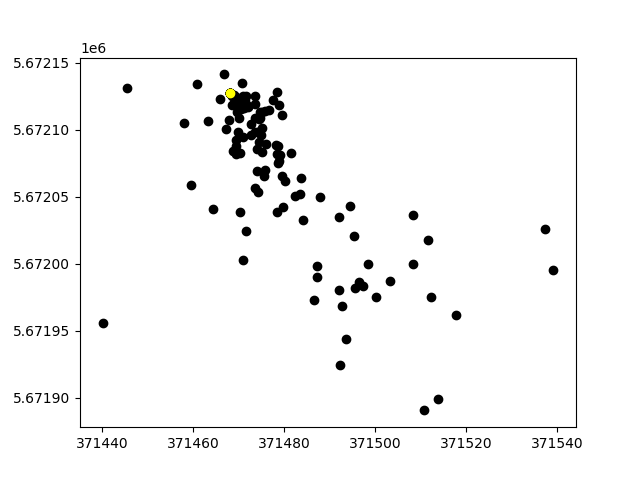
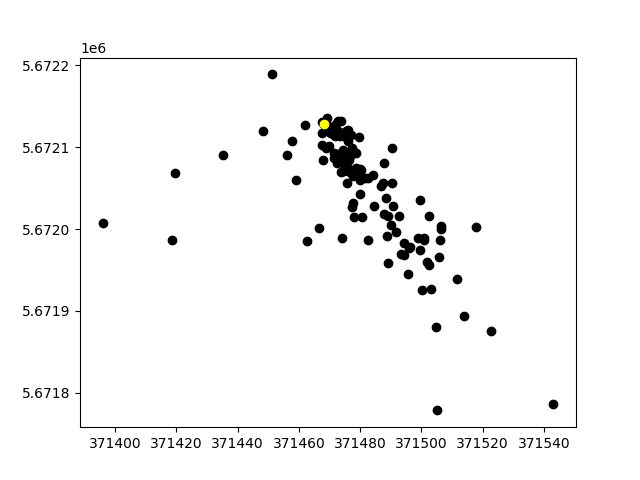
code cleaned. works perfectly

diff --git a/main.py b/main.py
@@ -1,22 +1,22 @@
+from ABC_HFs import *
 from runParameter import *
-import matplotlib.pyplot as plt
 
 import laspy
+import multiprocessing
+import matplotlib.pyplot as plt
 import time
 
-# Import Topography from file
+from scipy.io import loadmat
+
+# import relevant data
+data = loadmat('A6.mat')
+actualDebris    = data['A']
+actualDebris    = actualDebris[:119]
+
 file = laspy.read('/shome/yousef_j/Thesis/merged2Cut.laz')
 ptCloud = np.vstack((file.x, file.y, file.z)).T
-
-# Create Dummy file with zero elevation
-locationZero = np.copy(ptCloud)
-locationZero[:, 2] = 0
-dummyCloud = locationZero
-
+KDTree = cKDTree(ptCloud[:, :2])
 lowestPoint = 190
-
-# Point of Impact (House Number 128)
-pointOfImpact = [371468.11, 5672127.86, 290]
 
 # Course after bouncing off the house
 course = 167.54
@@ -26,13 +26,10 @@ sinkRate = -58
 velocity = 140
 scalingFactor = (velocity**2 - sinkRate**2)**0.5
 
-# How many times the entire simulation is run
-runs = 1
-
 projectileMass = 13000
 projectileVelocity = [np.sin(np.radians(course)) * scalingFactor, np.cos(np.radians(course)) * scalingFactor, -sinkRate]
-print(np.linalg.norm(projectileVelocity))
 projectileLength = 17.53
+pointOfImpact = [371468.11, 5672127.86, 290]
 
 minPen = 13.2
 maxPen = 28.15
@@ -47,22 +44,74 @@ psi = 0.9
 # Start timer
 start_time = time.time()
 
-KDTree = cKDTree(dummyCloud[:, :2])  # Only consider x and y coordinates
+# ABC and multiprocessing parameters
+h = 0.2     # tolerence is 10%
+N = 1000    # attempts to simulate a sample from the posterior
+numberOfCores = 40
+simulations_per_core = int(N/numberOfCores)
 
-# Run simulation
-storageDestinations = runParameter(runs, ptCloud, dummyCloud, lowestPoint, projectileMass, projectileLength,
-                                           projectileVelocity, pointOfImpact, psi, phi, c, b, minPen, maxPen, devPen, KDTree)
+# Function to run the simulation for a given index range
+def run_simulation(start_index, end_index, results_queue):
+    # Number of attempts to simulate a sample from the posterior
+    N = end_index - start_index  
+    
+    phi_result = []
+    storage_destinations_result = []
+    for i in range(N):
+        phi = np.random.uniform(0.81, 0.95)
+        storageDestinations = runParameter(ptCloud, lowestPoint, projectileMass, projectileLength, 
+                                           projectileVelocity, pointOfImpact, psi, phi, c, b, minPen, maxPen, devPen, KDTree,)
+        
+        acceptSample = distance(actualDebris, storageDestinations, h, pointOfImpact)
+        if acceptSample:
+            phi_result.append(phi)
+            storage_destinations_result.append(storageDestinations)
+
+    results_queue.put((phi_result, storage_destinations_result))
+
+# Multiprocessing
+manager = multiprocessing.Manager()
+results_queue = manager.Queue()
+processes = []
+for i in range(numberOfCores): 
+    start_index = i * simulations_per_core
+    end_index = (i + 1) * simulations_per_core
+    process = multiprocessing.Process(
+        target=run_simulation, args=(start_index, end_index, results_queue)
+    )
+    process.start()
+    processes.append(process)
+
+# Wait for all processes to finish
+for process in processes:
+    process.join()
+
+# Get the results from the queue
+phi = []
+storageDestinations = []
+while not results_queue.empty():
+    phi_temp, storageDestinations_temp = results_queue.get()
+    phi.extend(phi_temp)
+    storageDestinations.extend(storageDestinations_temp)
 
 # Print elapsed time
 print("Elapsed time:", time.time() - start_time)
 
+# plot posterior distribution of phi
+plt.hist(phi)
+plt.savefig("phiPosterior_N1000")
+plt.clf()
+plt.close()
+
+# Plotting simulated debris
 counter = 0
-for i in range(len(storageDestinations)):
-    if storageDestinations[i, 0] < 100:
+for i in range(len(storageDestinations[0])):
+    if storageDestinations[0][i, 0] < 100:
         counter += 1
         continue
     else:
-        plt.scatter(storageDestinations[i, 0], storageDestinations[i, 1], color='black')
-
+        plt.scatter(storageDestinations[0][i, 0], storageDestinations[0][i, 1], color='black')
 plt.scatter(pointOfImpact[0], pointOfImpact[1], color='yellow')
 plt.savefig("TopView")
+
+print("Number of accepted samples is", len(phi))

diff --git a/ABC_HFs.py b/ABC_HFs.py
@@ -1,0 +1,58 @@
+import numpy as np
+
+def summaryStatistics(debrisLocations, pointOfImpact):
+    # summary statistics for the data
+    #1. average location and its std
+    locAvg  = np.array([np.average(debrisLocations[:, 0]), np.average(debrisLocations[:, 1])])
+    locStd  = np.array([np.std(debrisLocations[:, 0]), np.std(debrisLocations[:, 1])])
+
+    #2. area covered by the debris
+    excludedIndicies = []
+    for i in range(len(debrisLocations)):
+        if abs(debrisLocations[i, 0] - pointOfImpact[0]) > abs(locAvg[0] - pointOfImpact[0]) + 3*locStd[0]:
+            excludedIndicies.append(i)
+            continue
+        elif abs(debrisLocations[i, 1] - pointOfImpact[1]) > abs(locAvg[1] - pointOfImpact[1]) + 3*locStd[0]:
+            excludedIndicies.append(i)
+            continue
+
+    Xmax, Xmin = np.max(np.delete(debrisLocations[:, 0], excludedIndicies)), np.min(np.delete(debrisLocations[:, 0], excludedIndicies))
+    Ymax, Ymin = np.max(np.delete(debrisLocations[:, 1], excludedIndicies)), np.min(np.delete(debrisLocations[:, 1], excludedIndicies))
+    length  = Xmax - Xmin
+    width   = Ymax - Ymin
+
+    #3. angle the avg point makes wrt crash location
+    vec     = locAvg - pointOfImpact[:2]
+    angle   = np.rad2deg(np.arctan(vec[1]/vec[0]))
+
+    return locAvg, locStd, length, width, angle
+
+
+def distance(actualDebris, simulatedDebris, e, pointOfImpact):
+    mask = np.all(simulatedDebris == 0, axis=1)
+    simulatedDebris = simulatedDebris[~mask]
+    sim_locAvg, sim_locStd, sim_length, sim_width, sim_angle = summaryStatistics(simulatedDebris, pointOfImpact)
+
+    # tolerance check
+    counter = 0
+    locAvg, locStd, length, width, angle = summaryStatistics(actualDebris, pointOfImpact)
+    if (1-e)*locAvg[0] <= sim_locAvg[0] <= locAvg[0]*(1+e):
+        counter += 1
+    if (1-e)*locAvg[1] <= sim_locAvg[1] <= locAvg[1]*(1+e):
+        counter += 1
+    # if (1-e)*locStd[0] <= sim_locStd[0] <= locStd[0]*(1+e):
+    #     counter += 1
+    # if (1-e)*locStd[1] <= sim_locStd[1] <= locStd[1]*(1+e):
+    #     counter += 1
+    if (1-e)*length <= sim_length <= length*(1+e):
+        counter += 1
+    if (1-e)*width <= sim_width <= width*(1+e):
+        counter += 1
+    if abs((1-e)*angle) <= abs(sim_angle) <= abs(angle*(1+e)):
+        counter += 1
+
+    # print(counter)
+    if counter >= 5:
+        return True
+    else:
+        return False

diff --git a/runParameter.py b/runParameter.py
@@ -4,21 +4,21 @@ from DebrisGeneration.solveODExyz import *
 from DebrisGeneration.collisionPoints import *
 
 
-def runParameter(runs, ptCloud, dummyCloud, lowestPoint, projectileMass, projectileLength, projectileVelocity,
+def runParameter(ptCloud, lowestPoint, projectileMass, projectileLength, projectileVelocity,
                  pointOfImpact, psi, phi, c, b, minimumPenetrationDistance,
                  maximumPenetrationDistance, standardDeviation, KDTree):
+    
     # runParameter executes the simulation with the given parameters and returns the final positions of the debris.
     # dummyCloud and ptCloud must be variables in the workspace.
 
     N = numberDebris(projectileMass, np.linalg.norm(projectileVelocity), 0.05)
-    for n in range(runs):
-        debris = generateDebris(projectileMass, projectileLength, projectileVelocity, pointOfImpact,
-                                psi, phi, c, b, minimumPenetrationDistance,
-                                maximumPenetrationDistance, standardDeviation, N)
+    debris = generateDebris(projectileMass, projectileLength, projectileVelocity, pointOfImpact,
+                            psi, phi, c, b, minimumPenetrationDistance,
+                            maximumPenetrationDistance, standardDeviation, N)
 
-        destinations = np.zeros((N, 3))
-        for i in range(N):
-            t, xyz = solveODExyz(debris[i, :], lowestPoint)
-            destinations[i, :] = collisionPoints(xyz, ptCloud, debris[i, 11], KDTree)
+    destinations = np.zeros((N, 3))
+    for i in range(N):
+        t, xyz = solveODExyz(debris[i, :], lowestPoint)
+        destinations[i, :] = collisionPoints(xyz, ptCloud, debris[i, 11], KDTree)
 
     return destinations
